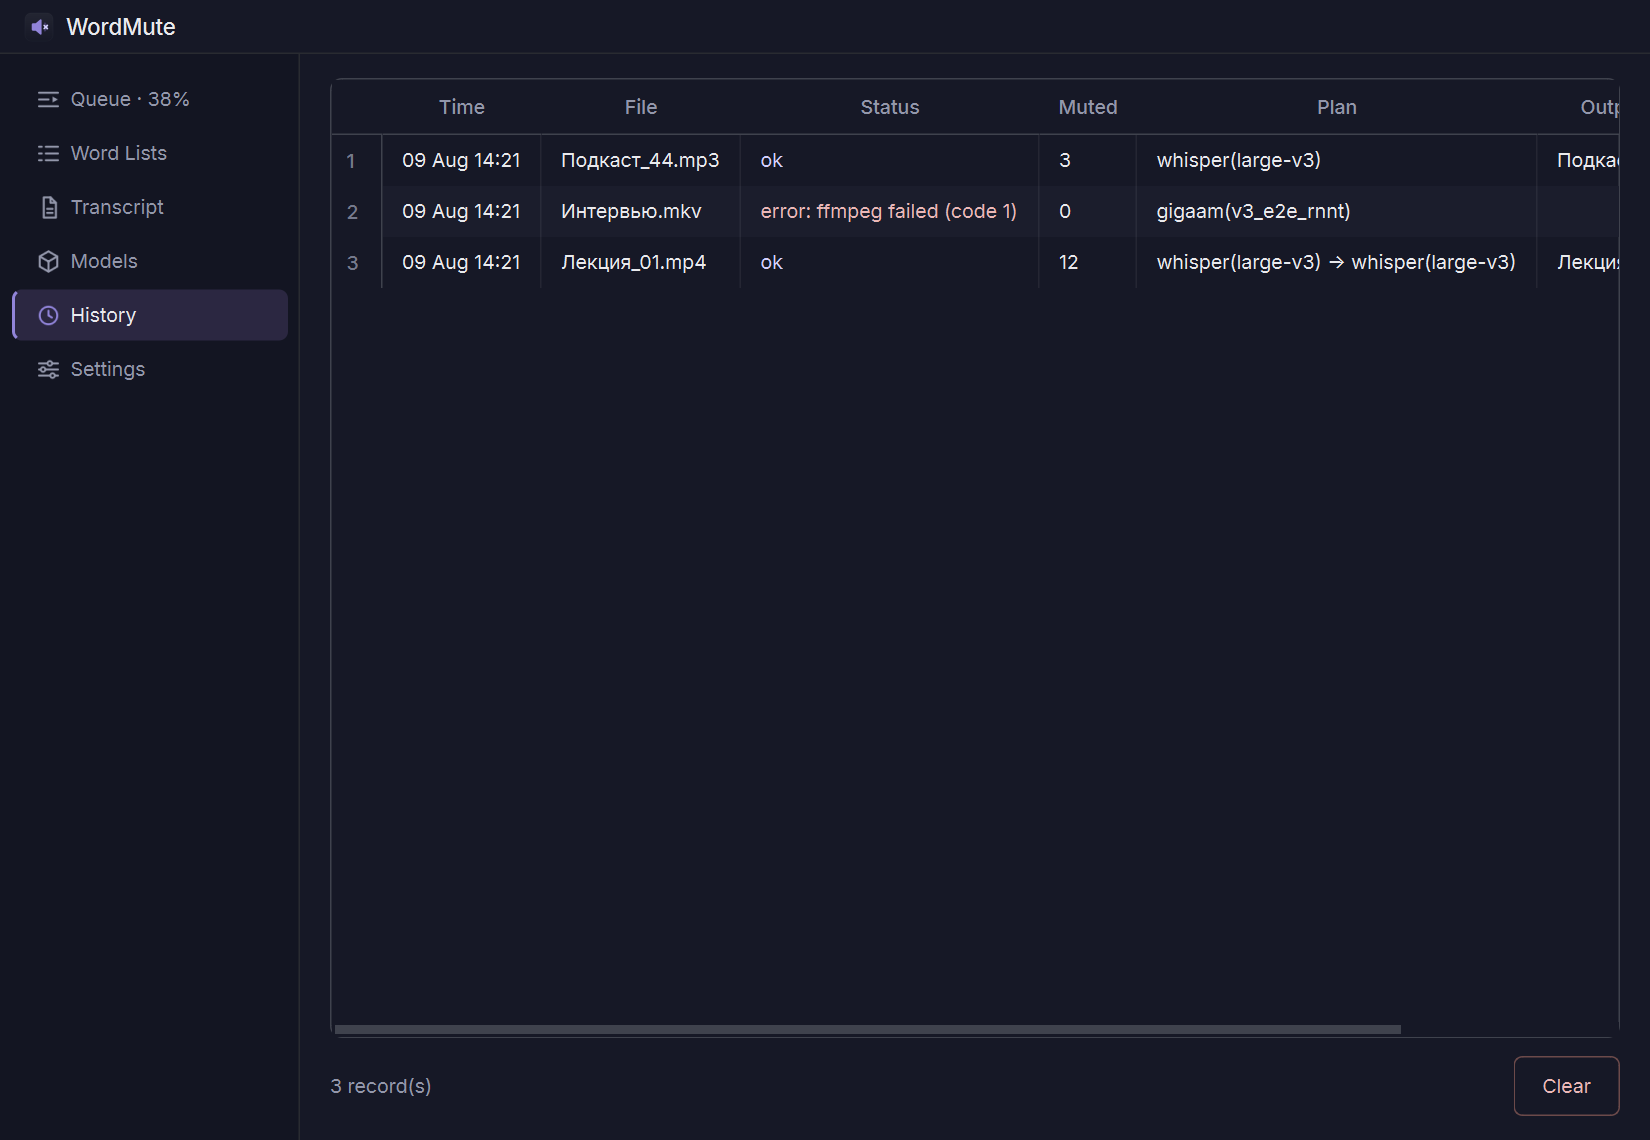
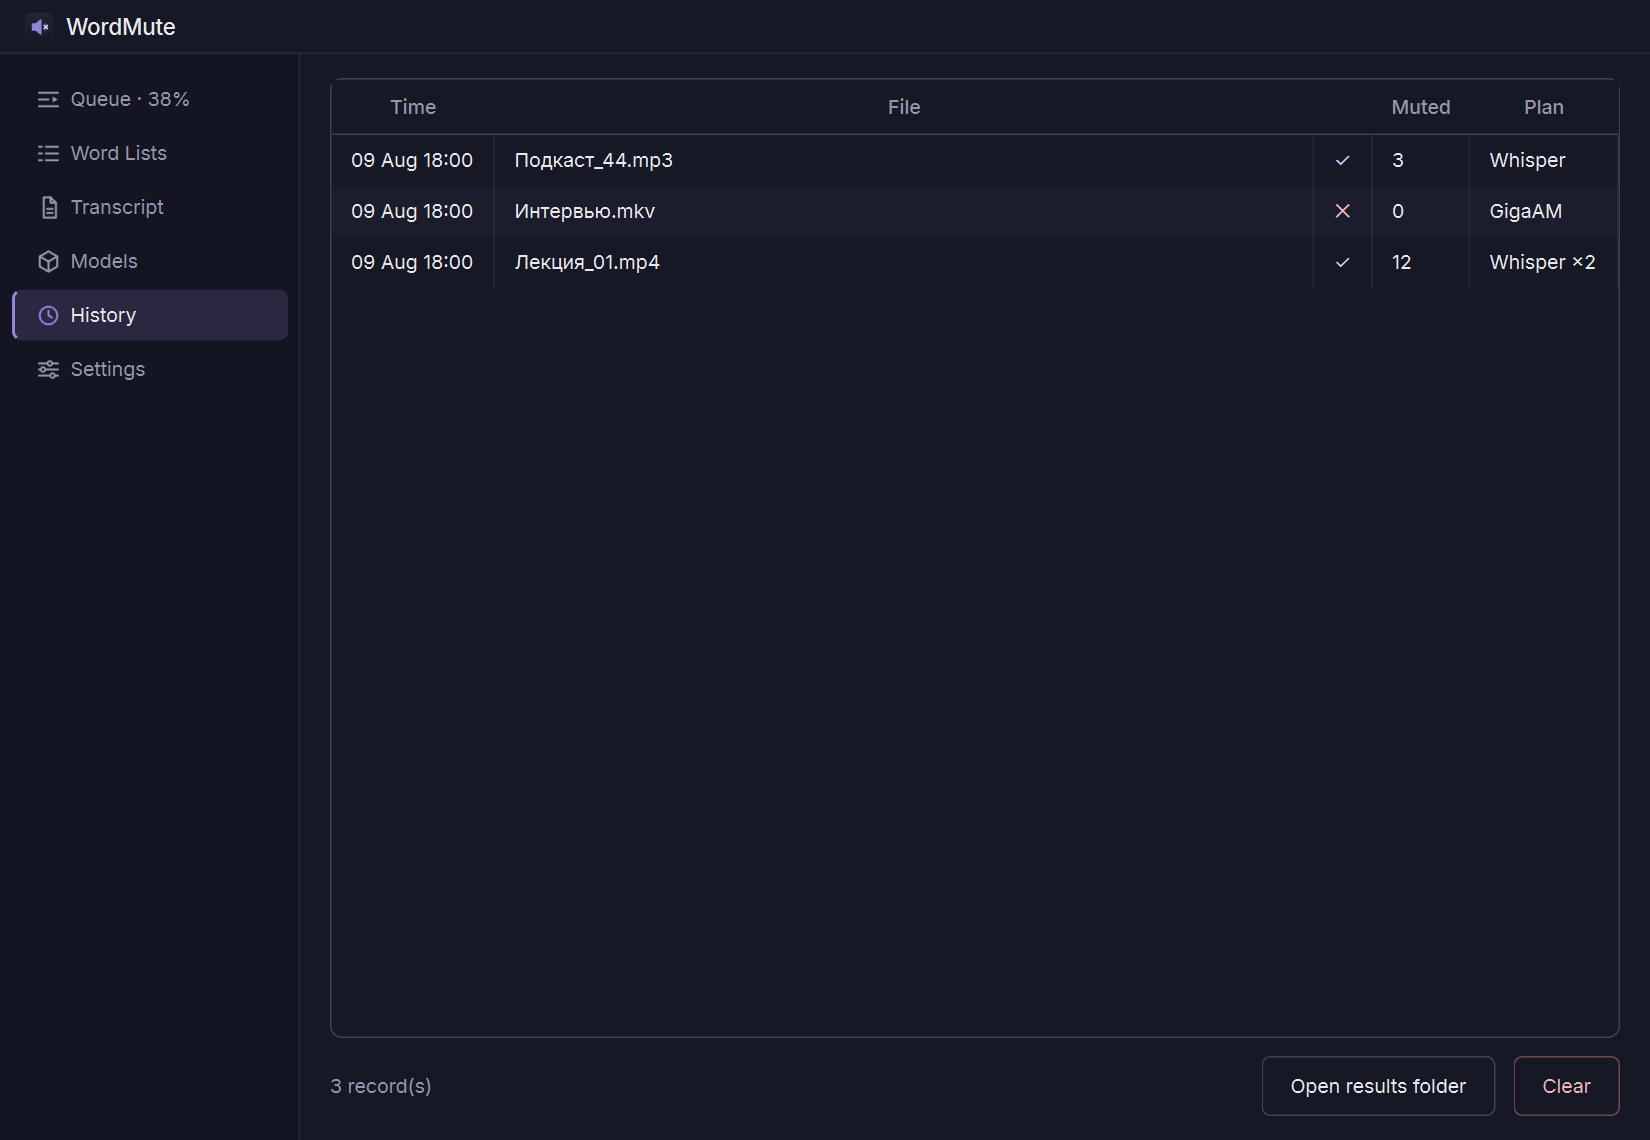
History tab: width diet + "Open results folder" (design zip 4)
Per the reworked §5 spec, the cuts are horizontal — row height stays
34px:
- row-number gutter hidden; horizontal scrollbar off; Файл is the
  single stretch column
- Статус text → fixed 28px ✓/✕ glyph, error message in the tooltip
  (✓ tooltip says Готово)
- План compacted with the same run-length style as the queue summary
  ("GigaAM ×2 → Whisper"); the full engine string moves to the
  tooltip
- Результат column dropped — double-click still opens the output,
  the right-click menu keeps open/show-in-folder/copy-error; the
  output path now lives on the Файл cell tooltip

New footer button «Открыть папку результатов»: opens the configured
output folder when Settings say "folder"; in beside-the-source mode
it opens the selected (else most recent) record's folder, selecting
the file in Explorer when it still exists. With no usable records it
shows the friendly empty-history message.

The zip's QSS files are deliberately NOT applied: diff showed they
contain zero new rules — only the three known silent reverts of our
"local merge:" blocks (per-cell hover back, column separators and
transparent chip strip gone). The design chat itself noted the
dense-row rules were reverted, so our current QSS is already the
correct end state.

i18n: Open results folder / Done / Error added. History-tab test
extended to cover the glyph column, plan compaction, hidden gutter
and the 5-column layout; 177 tests pass. Screenshots regenerated.

diff --git a/wordmute_app/ui/history_tab.py b/wordmute_app/ui/history_tab.py
@@ -21,11 +21,13 @@ from PySide6.QtWidgets import (
     QWidget,
 )
 
-from ..core import history
+from ..core import config, history
 from .hover_table import HoverRowTable
 from .i18n import tr
 
-COLUMNS = ["Time", "File", "Status", "Muted", "Plan", "Output"]
+COLUMNS = ["Time", "File", "", "Muted", "Plan"]
+FILE_COL = 1     # the single stretch column
+STATUS_COL = 2   # 28px ✓/✗ glyph
 OK_COLOR = QColor("#d2cefd")     # accent-300
 ERR_COLOR = QColor("#eab7b7")    # error text
 
@@ -37,6 +39,22 @@ def _short_time(iso: str) -> str:
         return iso
 
 
+def _compact_plan(plan: str) -> str:
+    """'gigaam(v3) -> gigaam(v3) -> whisper(large-v3)' → 'GigaAM ×2 → Whisper'"""
+    from itertools import groupby
+    engines = []
+    for part in plan.split("->"):
+        part = part.strip().split("(")[0].strip().lower()
+        if part:
+            engines.append("GigaAM" if part == "gigaam" else "Whisper"
+                           if part == "whisper" else part)
+    parts = []
+    for engine, run in groupby(engines):
+        count = len(list(run))
+        parts.append(engine if count == 1 else f"{engine} ×{count}")
+    return " → ".join(parts)
+
+
 class HistoryTab(QWidget):
     def __init__(self, parent=None):
         super().__init__(parent)
@@ -46,10 +64,15 @@ class HistoryTab(QWidget):
         layout.setSpacing(12)
 
         self.table = HoverRowTable(0, len(COLUMNS))
-        self.table.setHorizontalHeaderLabels([tr(c) for c in COLUMNS])
-        self.table.horizontalHeader().setSectionResizeMode(
-            QHeaderView.ResizeToContents)
-        self.table.horizontalHeader().setStretchLastSection(True)
+        self.table.setHorizontalHeaderLabels(
+            [tr(c) if c else "" for c in COLUMNS])
+        header = self.table.horizontalHeader()
+        header.setSectionResizeMode(QHeaderView.ResizeToContents)
+        header.setSectionResizeMode(FILE_COL, QHeaderView.Stretch)
+        header.setSectionResizeMode(STATUS_COL, QHeaderView.Fixed)
+        self.table.setColumnWidth(STATUS_COL, 28)
+        self.table.verticalHeader().setVisible(False)
+        self.table.setHorizontalScrollBarPolicy(Qt.ScrollBarAlwaysOff)
         self.table.setSelectionBehavior(QAbstractItemView.SelectRows)
         self.table.setEditTriggers(QAbstractItemView.NoEditTriggers)
         self.table.verticalHeader().setDefaultSectionSize(34)
@@ -65,6 +88,9 @@ class HistoryTab(QWidget):
         self.count_label.setProperty("muted", True)
         bottom.addWidget(self.count_label)
         bottom.addStretch()
+        self.folder_button = QPushButton(tr("Open results folder"))
+        self.folder_button.clicked.connect(self._open_results_folder)
+        bottom.addWidget(self.folder_button)
         clear = QPushButton(tr("Clear"))
         clear.setProperty("danger", True)
         clear.clicked.connect(self._clear)
@@ -78,22 +104,24 @@ class HistoryTab(QWidget):
         for row, r in enumerate(self._records):
             status = r.get("status", "")
             error = r.get("error", "")
-            status_item = QTableWidgetItem(
-                f"error: {error}" if status == "error" else status)
+            status_item = QTableWidgetItem("✓" if status == "ok" else "✕")
+            status_item.setTextAlignment(Qt.AlignCenter)
             if status == "ok":
                 status_item.setForeground(OK_COLOR)
-            elif status == "error":
+                status_item.setToolTip(tr("Done"))
+            else:
                 status_item.setForeground(ERR_COLOR)
-                status_item.setToolTip(error)
+                status_item.setToolTip(error or tr("Error"))
             time_item = QTableWidgetItem(_short_time(r.get("time", "")))
             time_item.setToolTip(r.get("time", ""))
             output = r.get("output", "")
-            output_item = QTableWidgetItem(Path(output).name if output
-                                           else "")
-            output_item.setToolTip(output)
-            values = [time_item, QTableWidgetItem(r.get("name", "")),
-                      status_item, QTableWidgetItem(str(r.get("muted", ""))),
-                      QTableWidgetItem(r.get("plan", "")), output_item]
+            file_item = QTableWidgetItem(r.get("name", ""))
+            if output:
+                file_item.setToolTip(output)
+            plan_item = QTableWidgetItem(_compact_plan(r.get("plan", "")))
+            plan_item.setToolTip(r.get("plan", ""))
+            values = [time_item, file_item, status_item,
+                      QTableWidgetItem(str(r.get("muted", ""))), plan_item]
             for col, item in enumerate(values):
                 self.table.setItem(row, col, item)
         self.count_label.setText(
@@ -130,6 +158,29 @@ class HistoryTab(QWidget):
             subprocess.Popen(["explorer", "/select,", str(Path(out))])
         elif chosen is act_copy:
             QGuiApplication.clipboard().setText(r.get("error", ""))
+
+    def _open_results_folder(self):
+        """Configured output folder; in beside-the-source mode, the
+        selected (or most recent) record's folder."""
+        settings = config.load_settings()
+        if settings["output_mode"] == "folder" and settings["output_dir"]:
+            folder = Path(settings["output_dir"])
+            if folder.is_dir():
+                os.startfile(str(folder))
+                return
+        row = self.table.currentRow()
+        candidates = ([self._record_for_row(row)] if row >= 0 else []) \
+            + self._records
+        for r in candidates:
+            out = (r or {}).get("output", "")
+            if out and Path(out).parent.is_dir():
+                if Path(out).exists():
+                    subprocess.Popen(["explorer", "/select,", str(Path(out))])
+                else:
+                    os.startfile(str(Path(out).parent))
+                return
+        QMessageBox.information(self, "WordMute",
+                                tr("Processed files will appear here."))
 
     def _clear(self):
         if QMessageBox.question(self, "WordMute",

diff --git a/tests/test_extras_ui.py b/tests/test_extras_ui.py
@@ -102,10 +102,23 @@ def test_history_tab_populates(qapp, tmp_path, monkeypatch):
 
     history.append_history({"name": "v.mp4", "status": "ok", "muted": 5,
                             "plan": "whisper(small)", "output": "v.clean.mp4"})
+    history.append_history({"name": "b.mp4", "status": "error",
+                            "error": "boom", "muted": 0,
+                            "plan": "gigaam(v3) -> gigaam(v3) -> whisper(s)"})
     tab = HistoryTab()
-    assert tab.table.rowCount() == 1
-    assert tab.table.item(0, 1).text() == "v.mp4"
-    assert tab.table.item(0, 3).text() == "5"
+    assert tab.table.rowCount() == 2
+    # most recent first; status is a ✓/✗ glyph, plan is compacted
+    assert tab.table.item(0, 1).text() == "b.mp4"
+    assert tab.table.item(0, 2).text() == "✕"
+    assert tab.table.item(0, 2).toolTip() == "boom"
+    assert tab.table.item(0, 4).text() == "GigaAM ×2 → Whisper"
+    assert tab.table.item(1, 2).text() == "✓"
+    assert tab.table.item(1, 3).text() == "5"
+    assert tab.table.item(1, 4).text() == "Whisper"
+    # width diet: no row-number gutter, File stretches, no Output column
+    assert not tab.table.verticalHeader().isVisible()
+    assert tab.table.columnCount() == 5
+    assert tab.folder_button.text()
 
 
 def test_hover_row_table_paints_whole_row(qapp):

diff --git a/wordmute_app/ui/i18n.py b/wordmute_app/ui/i18n.py
@@ -361,6 +361,9 @@ RU = {
     "{} record(s)": "Записей: {}",
     "Clear the whole processing history?":
         "Очистить всю историю обработки?",
+    "Open results folder": "Открыть папку результатов",
+    "Done": "Готово",
+    "Error": "Ошибка",
     # transcript tab
     "Text": "Текст",
     "{} words": "Слов: {}",
